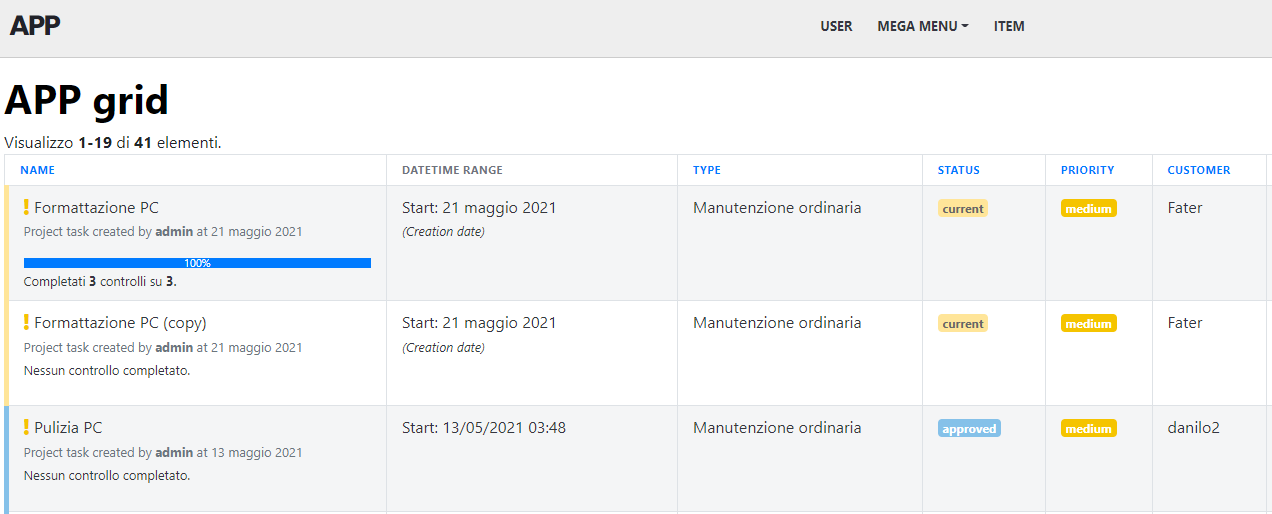
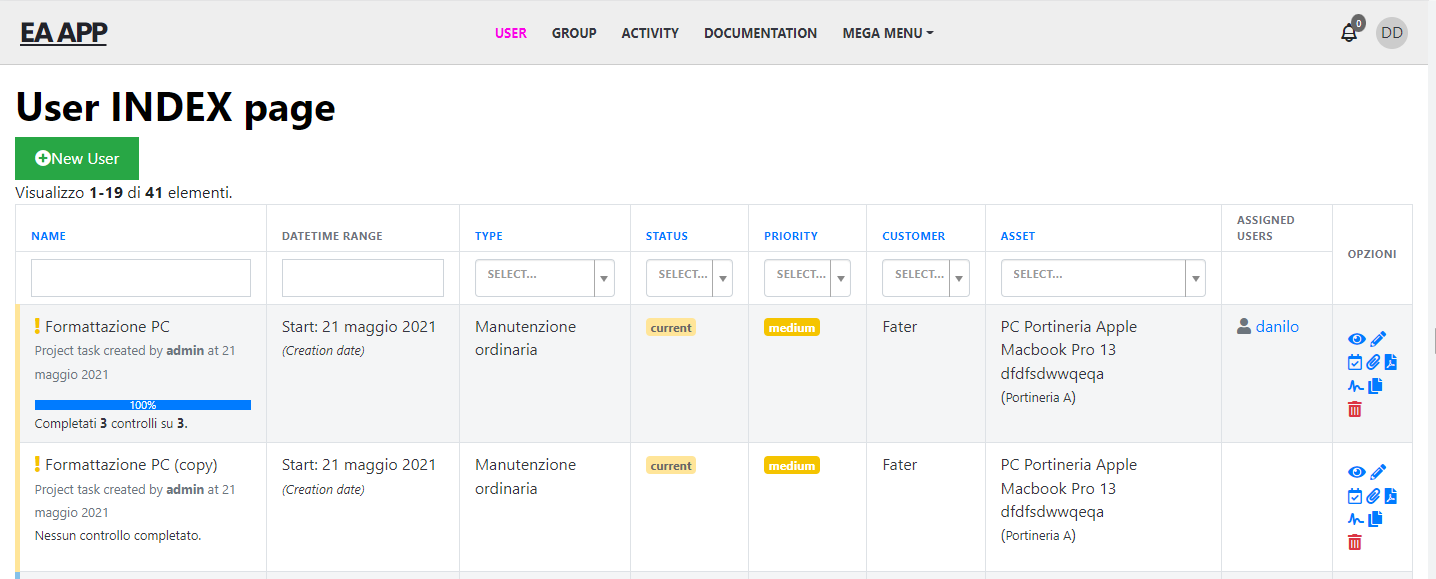
Updated README.md

diff --git a/README.md b/README.md
@@ -1,27 +1,77 @@
 # easyadmin-job
 You can clone this repo and use it as boilerplate.
 
-You can see the desidered layout. This is for INDEX page:
+This App has these modules: "User", "Activity", "Group" and "Documentation". 
+To get an idea on how those modules are organized here you can see the DB schema:
+![EA App database schema](public/easyadmin-job-db-schema.png)
+
+Each module has to have an item on TOP menu. So TOP menu has these items: "USER", "GROUP", "ACTIVITY" and "DOCUMENTATION".
+
+## The INDEX page
+You can get an idea looking at this mockup: 
 ![The desidered layout](public/index_grid.png)
 
-And this is for DETAIL page:
+Click on each item on TOP menu triggers two actions:
+* a CSS class "active" (or equivalent) is added on the item. In the above screen, the item is pink colored)
+* it goes to the related INDEX page. In this case, it goes to USER INDEX page.
+
+To be clear, I recap the actions with each TOP menu item:
+* click on "USER" top menu item: "USER" item gets "active" CSS and destination page is USER::INDEX page. The INDEX page shows all users from User model.
+* click on "GROUP" top menu item: "GROUP" item gets "active" CSS and destination page is GROUP::INDEX page. The INDEX page shows all groups from UserGroup model.
+* click on "ACTIVITY" top menu item: "ACTIVTY" item gets "active" CSS and destination page is ACTIVITY::INDEX page. The INDEX page shows all activities from Activity model.
+* click on "DOCUMENTATION" top menu item: "DOCUMENTATION" item gets "active" CSS and destination page is DOCUMENTATION::INDEX page. The DOCUMENTATION page shows all Document from UserGroup model.
+* MEGA MENU has only to show a mega menu on click. To do in next milestone
+
+When click on "update" button on a single record in INDEX page, for example when you click on "update" of "User 1", the APP goes to the DETAIL page.
+
+## The DETAIL page
+The desidered layout for DETAIL page is this:
 ![The desidered layout](public/user_detail.png)
 
-As you can see I need a layout with menu on top, rather than on sidebar as displayed in default EA admin.
+This is an example for DETAIL page of "User" module. You know that we're in "User" module thanks to pink colored "USER" top menu item.
+The goal of DETAIL page is to show and modify related values about the current module.
+For "User" module, for example, we have this additional infos: 
+* **User detail**, the default related info. It show values from User model. By default this item is active, when you arrive from INDEX page
+* **Profile detail**, that shows values from UserProfile model where User.id = UserProfile.user_id
+* **Group**, that shows values from UserGroup model where User.group_id = UserGroup.id
+* **Documentation**, that shows values from Documentation model where User.documentation_id = Documentation.id
+* **Activities**, that shows values from Activities model where user_id = activity_id using a joining table due the ManyToMany relation
 
+What happens when you click on each sidebar menu item:
+* click on **User detail** shows current User model form. "User detail" item gets "active" CSS class
+* click on **Profile detail** shows UserProfile model form related to current User. "Profile detail" item gets "active" CSS class
+* click on **Group** shows UserGroup model form related to current User. "Group" item gets "active" CSS class
+* click on **Documentation** shows Documentation model form for current User. "Documentation" item gets "active" CSS class
+* click on **Activities** shows Activities models forms (be careful, they are many!) for current User. "Activities" item gets "active" CSS class
 
-In the DETAIL page I also need a sidebar menu, where each item/link routes to a custom controller and become active.
+The sidebar menu, in every module DETAIL page (User, Group, Activity, Documentation) has to be decoupled from top menu and customizable in a easy way. 
 
-In this boilerplate app I've added following entities:
-* User
-* UserProfile
-* Documentation
-* Activity
+The concept of DETAIL page in "User" module, as you can see on the screenshot, is extensible to each other modules. So when you click on "GROUP" on top menu, the item will be "active" and you'll go to GROUP DETAIL page showing a different sidebar menu.
+Clicking on "ACTIVITY"? "ACTIVITY" menu item gets "active" CSS class, you go to ACTIVITY DETAIL page and have a different sidebar menu.
+Same for "GROUP" and "DOCUMENTATION" top menu items.
 
-with same fake data in DB.
+So, a top menu item represents a module; click on it it gets you to the module DETAIL page. In that module DETAIL page you have a different sidebar menu depending on module. 
 
-What I need:
-* I've uploaded 2 views (INDEX and DETAIL) just to clarify the layout, but what I really need is only the DETAIL page
+What you see in each module's sidebar in DETAIL page, arriving from related INDEX page:
+* in USER module, as we have already seen, we have these items in sidebar menu:
+    * User detail (User model)
+    * Profile detail (UserProfile model)
+    * Group (related UserGroup model)
+    * Documentation (related Documentation model)
+    * Activity (related Activity models)
+* in GROUP module we have these items in sidebar menu:
+    * General (current UserGroup model)
+    * Users (User models related to current UserGroup)
+* in ACTIVITY module we have these items in sidebar menu:
+    * General (current Activity model)
+    * Users (User models related to current Activity)
+* in DOCUMENTATION module we have these items in sidebar menu:
+    * General (current Documentation model)
+    * Users (User models related to current Documentation)
+To prove me sidebar customization you have to display each sidebar menu with a different background color. 
+
+## Requested tasks
+I really need is only the DETAIL page
 * The main menu has to be on top, rather than on sidebar
 * The main menu has to use MenuItem class and other offered EA classes
 * The layout has to be responsive 
